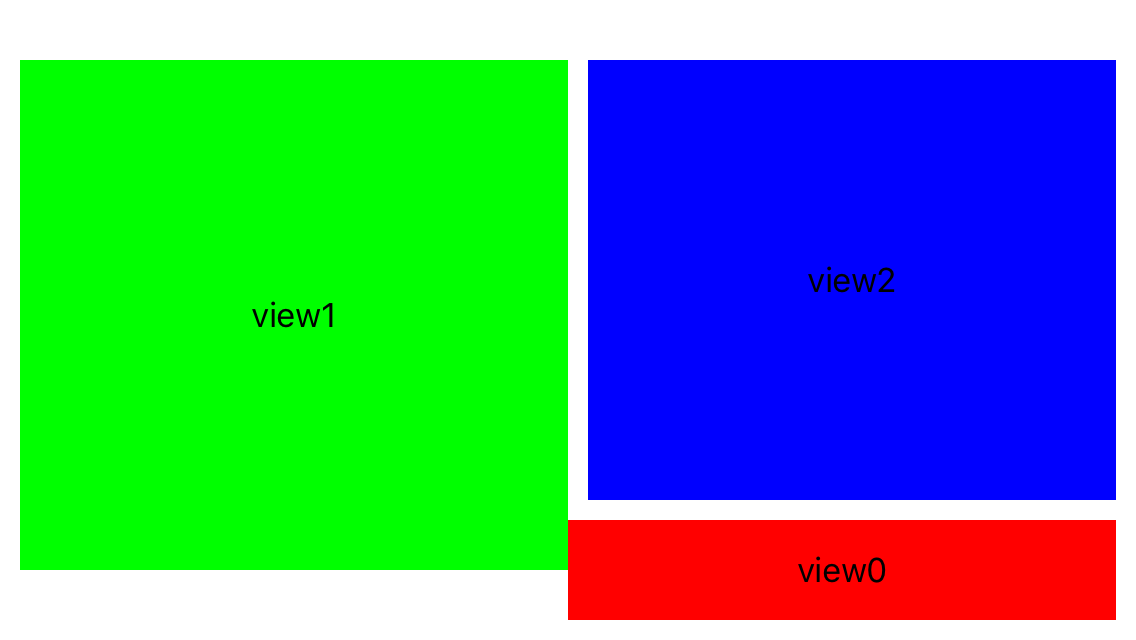
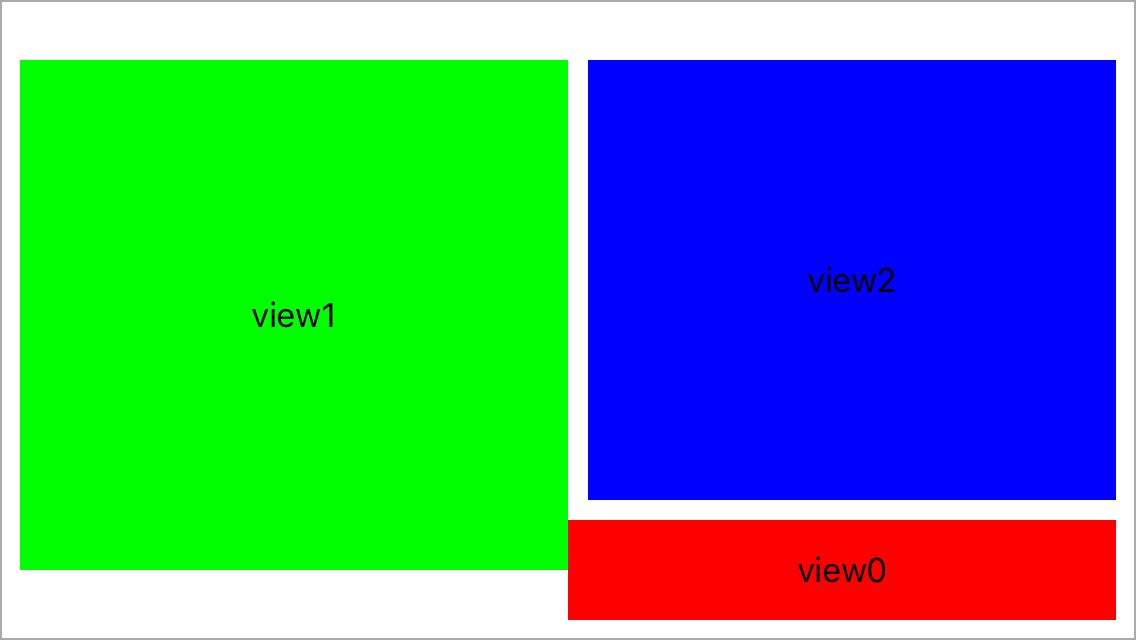
images update

Changed region(s): [[0.9859, 0.0, 1.0, 1.0], [0.0, 0.9688, 0.0308, 1.0], [0.0, 0.0, 0.0308, 0.0312]]

diff --git a/BTLayout/ViewController.m b/BTLayout/ViewController.m
@@ -22,6 +22,9 @@
 - (void)viewDidLoad {
     [super viewDidLoad];
     
+    self.view.layer.borderWidth = 1;
+    self.view.layer.borderColor = UIColor.lightGrayColor.CGColor;
+    
     self.view0 = [UILabel new];
     self.view0.backgroundColor = UIColor.redColor;
     self.view0.text = @"view0";
